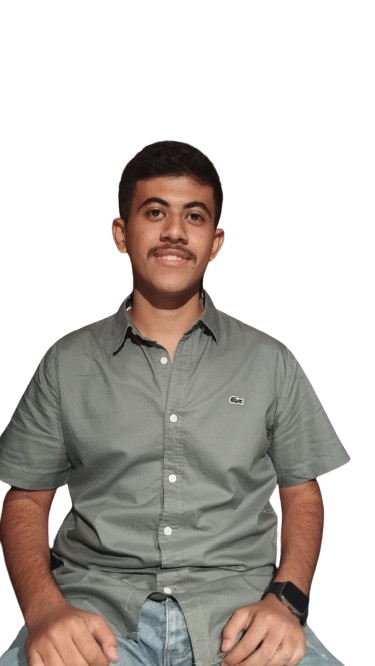
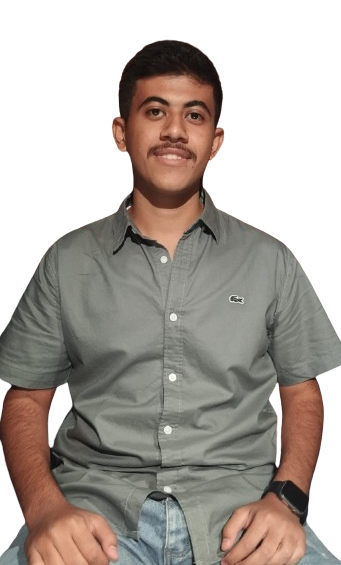
portofolio-

diff --git a/style.css b/style.css
@@ -302,6 +302,15 @@ h2 {
         order: 1;
     }
 
+    .ahmad {
+        border-radius: 100px;
+        border: black solid 5px;
+        margin-top: 35px;
+        margin-bottom: 20px;
+        background-color: hsl(208, 31%, 26%);
+    }
+
+
     .item1 {
         order: 2;
     }

diff --git a/index.html b/index.html
@@ -80,7 +80,7 @@
         </div>
 
         <div class="item2">
-            <img src="./ahmad-removebg-preview.png" alt="">
+            <img src="./ahmad-removebg-preview.png" alt="" class="ahmad">
         </div>
 
     </section>
